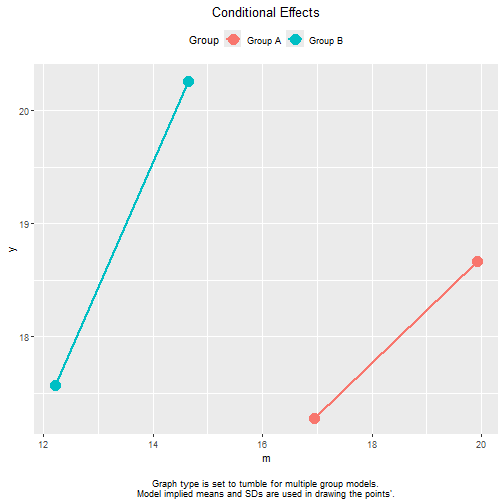
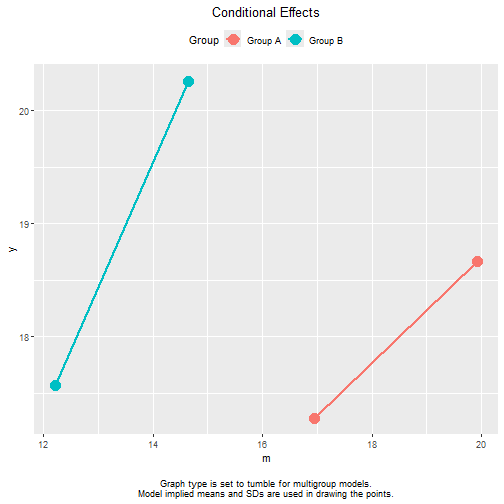
0.1.14.11: Fix some typos

Changed region(s): [[0.2679, 0.9524, 0.7738, 1.0]]

diff --git a/README.md b/README.md
@@ -9,7 +9,7 @@
 [![R-CMD-check](https://github.com/sfcheung/manymome/actions/workflows/R-CMD-check.yaml/badge.svg)](https://github.com/sfcheung/manymome/actions/workflows/R-CMD-check.yaml)
 <!-- badges: end -->
 
-(Version 0.1.14.10, updated on 2024-04-01, [release history](https://sfcheung.github.io/manymome/news/index.html))
+(Version 0.1.14.11, updated on 2024-04-03, [release history](https://sfcheung.github.io/manymome/news/index.html))
 
 # manymome  <img src="man/figures/logo.png" align="right" height="150" />
 

diff --git a/NEWS.md b/NEWS.md
@@ -1,4 +1,4 @@
-# manymome 0.1.14.10
+# manymome 0.1.14.11
 
 ## New Features
 
@@ -46,7 +46,7 @@
   are used to determine the means and SDs
   used in drawing he plot. This approach
   is useful when equality constraints
-  are present. (0.1.14.2, 0.1.14.6, 0.1.14.10)
+  are present. (0.1.14.2, 0.1.14.6, 0.1.14.10, 0.1.14.11)
 
 - The `plot`-method of
   `cond_indirect_effects`-class objects
